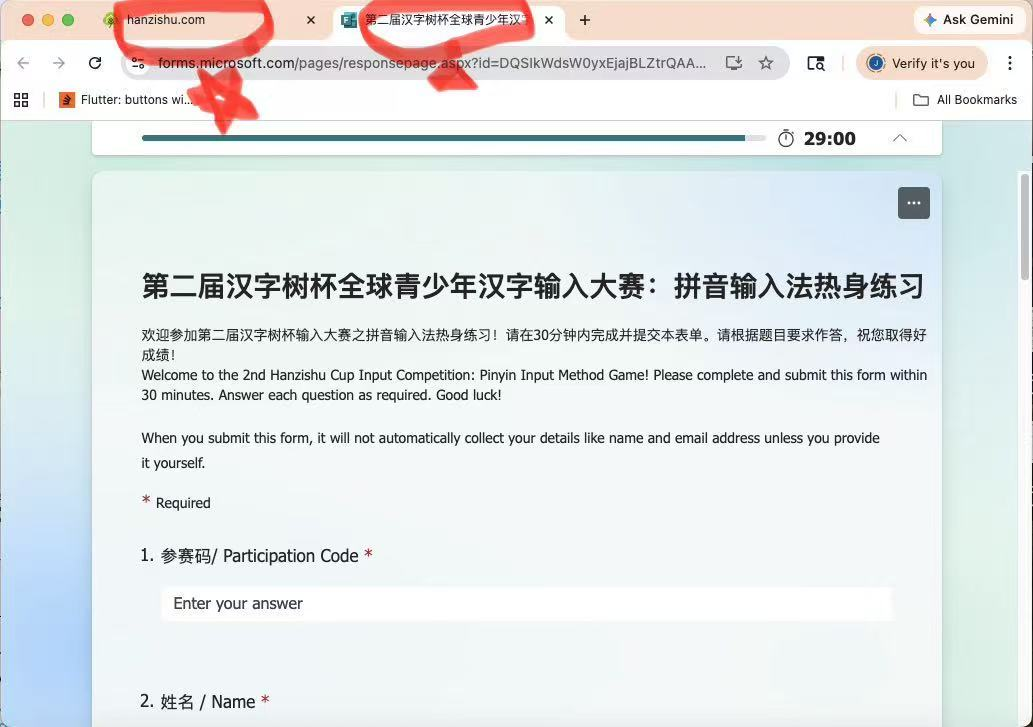
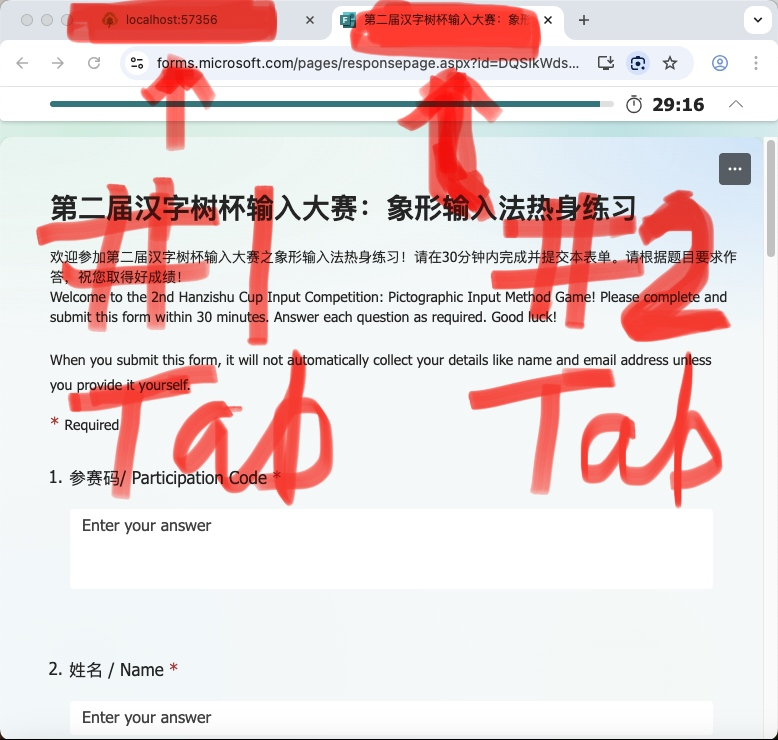
minor update on inputgame two pages

diff --git a/lib/ui/inputgamepage.dart b/lib/ui/inputgamepage.dart
@@ -298,15 +298,13 @@ class _InputGamePageState extends State<InputGamePage> with SingleTickerProvider
     launchAnswerSheets.add(Text(getString(540),   style: TextStyle(color: Colors.lightBlue,
       fontSize: 17.0 * getSizeRatioWithLimit(), // Set the font size in logical pixels
     ),));
+    launchAnswerSheets.add(SizedBox(height: 20 * getSizeRatioWithLimit()));
     launchAnswerSheets.add(Image.asset('assets/core/inputgamehelper.jpg',
       width: 300.0 * getSizeRatioWithLimit(),
       height: 250.0 * getSizeRatioWithLimit(),
-      fit: BoxFit.fitWidth,));
+      fit: BoxFit.fitHeight,));
     launchAnswerSheets.add(SizedBox(height: 10.0));
-    var answerSheetUrl = InputGameManager.getInputGameById(currentGameId!).answerSheetUrl;
-    launchAnswerSheets.add(Text(getString(541), style: TextStyle(fontSize: 17)));
-    launchAnswerSheets.add(SelectableText(answerSheetUrl, style: TextStyle(fontSize: 17)));
-    launchAnswerSheets.add(SizedBox(height: 10.0));
+
     launchAnswerSheets.add(Center(child: TextButton(
       style: TextButton.styleFrom(
         textStyle: TextStyle(fontSize: 20.0 * getSizeRatioWithLimit()),
@@ -352,6 +350,10 @@ class _InputGamePageState extends State<InputGamePage> with SingleTickerProvider
     games.add(SizedBox(height: 50 * getSizeRatioWithLimit()));
     games.add(Center(child: Text(getString(543) + inputTypeStr + ".", style: TextStyle(color: Colors.lightBlue, fontSize: 20.0 * getSizeRatioWithLimit()))));
     games.add(SizedBox(height: 10));
+    var answerSheetUrl = InputGameManager.getInputGameById(currentGameId!).answerSheetUrl;
+    games.add(Text(getString(541), style: TextStyle(fontSize: 17)));
+    games.add(SelectableText(answerSheetUrl, style: TextStyle(fontSize: 17)));
+    games.add(SizedBox(height: 10.0));
     games.add(Center(child: TextButton(
       style: TextButton.styleFrom(
         textStyle: TextStyle(fontSize: 20.0 * getSizeRatioWithLimit()),

diff --git a/lib/localization/string_en_US.dart b/lib/localization/string_en_US.dart
@@ -547,11 +547,11 @@ var theString_en_US = [
   Local(537, "Warm Up Exercise Top 10 Results"),
   Local(538, "Registration: Hanzishu Cup Hanzi Input Competition"),
   Local(539, "Enter participation code, then press 'Enter' or 'Done'."),
-  Local(540, "Note：You will open a new 'answer sheet' web page, and start the clock and fill out your personal information there. You will Then click this red star area as shown in the following picture to come back to the 'typing' web page to start game typing."),
-  Local(541, "Note: If the following action can't open the 'answer sheet' web page, you can open it yourself with following address："),
-  Local(542, "Open answer sheet web page."),
+  Local(540, "Note：You will open a new #2 'answer sheet' tab page. When you are done there, as shown below, click #1 tab to come back to the 'typing' tab page to start typing."),
+  Local(541, "Note: In case the 'answer sheet' page was not opened, you can open it yourself with following address："),
+  Local(542, "Open #2 new 'Answer Sheet' tab page"),
   Local(543, "1. Make sure your input mode is set at: "),
-  Local(544, "2. Start the Game"),
+  Local(544, "2. Start typing Question 1"),
   Local(545, "Please Type"),
   Local(546, "Question"),
   Local(547, "After finishing typing, do following:"),

diff --git a/lib/localization/string_zh_CN.dart b/lib/localization/string_zh_CN.dart
@@ -544,11 +544,11 @@ var theString_zh_CN = [
   Local(537, "热身练习前十名榜单 "),
   Local(538, "报名：汉字树杯汉字输入大赛"),
   Local(539, "请打入参赛码,然后按‘回车键’或‘完成’"),
-  Local(540, "注意：你将进入一页新的'答卷'网页，并且在那里打开钟记时，填写你的个人信息部分；然后点击下图所示的红角星区域，返回到‘打字’网页打比赛题。"),
-  Local(541, "注：如果下列行动没打开'答卷'网页，你可以用以下链接自己打开："),
-  Local(542, "打开比赛答卷网页"),
+  Local(540, "注意：你将进入一页新的#2'答卷'网页（tab）。当你在那页做完工作以后，点击下图所示的#1“打字”网页（tab）开始打字。"),
+  Local(541, "注：如果'答卷'网页没有打开，你可以用以下链接自己打开："),
+  Local(542, "打开#2新的'答卷'网页"),
   Local(543, "1. 核查一下你的输入模式是: "),
-  Local(544, "2. 开始比赛"),
+  Local(544, "2. 开始打第1道题"),
   Local(545, "请打第"),
   Local(546, "道题"),
   Local(547, "打完以后，做下列:"),
